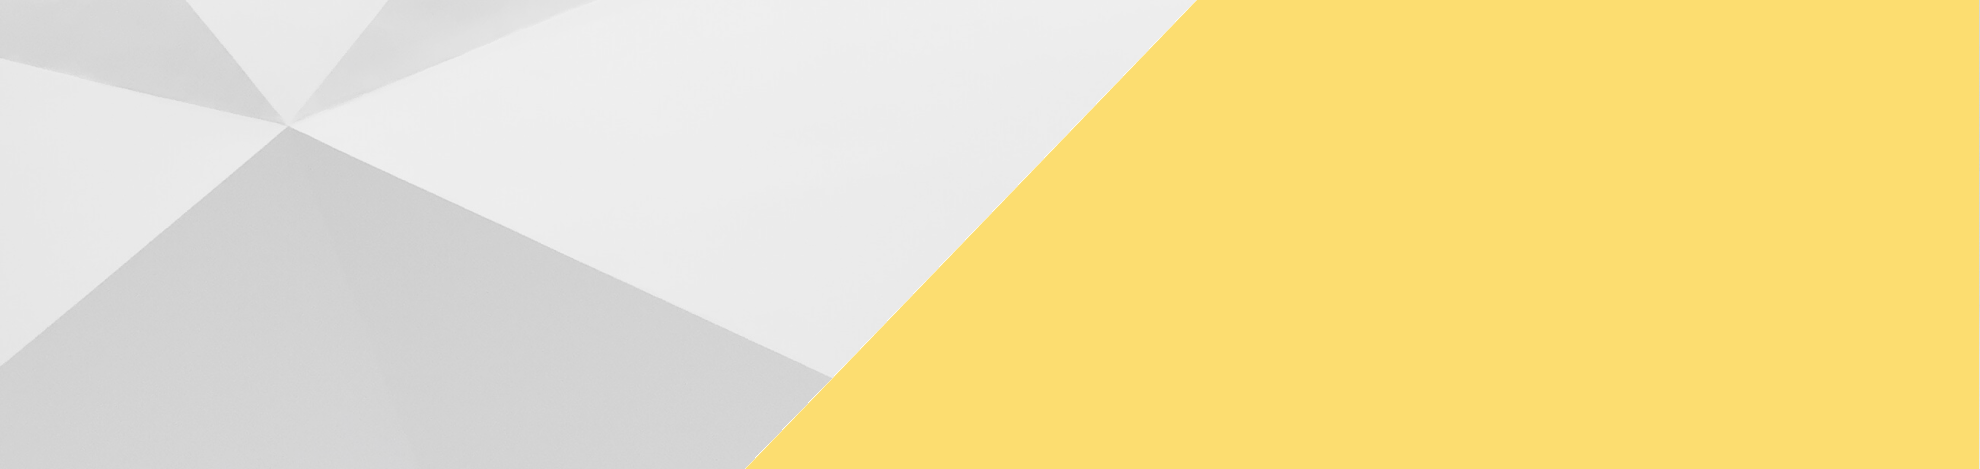
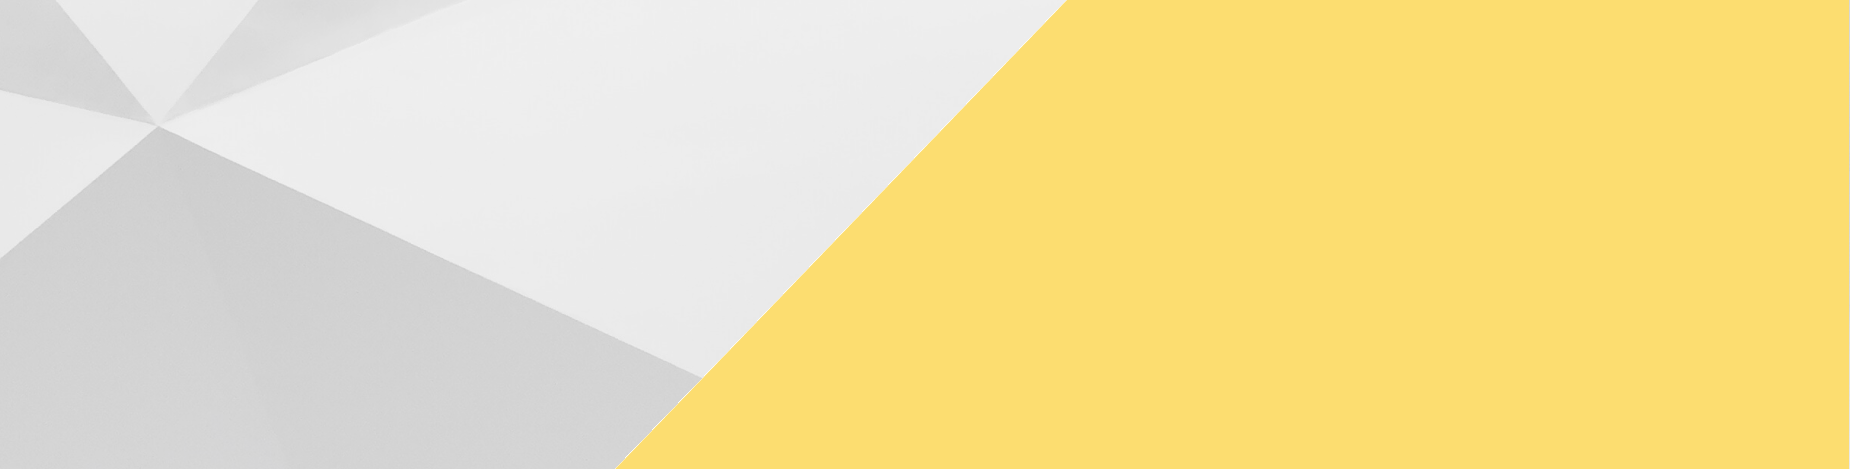
Added new block

Changed region(s): [[0.3081, 0.0, 0.6162, 1.0], [0.0308, 0.2687, 0.3389, 0.6866], [0.1232, 0.209, 0.1541, 0.2388]]

diff --git a/index.html b/index.html
@@ -37,31 +37,32 @@
                 </div>
             </div>
             <div class="row second-section">
-                <div class="col-6 col-sm-12 second-section-margin">
-                    <div class="d-flex flex-column">
-                        <div class="my-auto">
-                            <p class="second-section-header">White Pages Extractor</p>
-                        </div>
-                        <div class="my-auto">
-                            <p class="middle-text"><a href="#">FREE DOWNLOAD</a>, CLICK HERE to extract data about individuals in Canada</p>
-                        </div>
-                        <div class="my-auto">
-                            <button class="download-button">Download <img src="Images/00002.svg" alt="Windows icon"/></button>
-                        </div>
+                <div class="col-lg-6 col-sm-12 d-flex flex-column second-section-margin">
+                    <div class="header-text my-auto">
+                        <p class="second-section-header">White Pages Extractor</p>
+                    </div>
+                    <div class="header-text my-auto">
+                        <p class="middle-text"><a href="#">FREE DOWNLOAD</a>, CLICK HERE to extract data about individuals in Canada</p>
+                    </div>
+                    <div class="my-auto">
+                        <button class="download-button">Download <img src="Images/00002.svg" alt="Windows icon"/></button>
                     </div>
                 </div>
-                <div class="col-6 col-sm-12 second-section-margin">
-                    <div class="d-flex flex-column">
-                        <div class="my-auto">
-                            <p class="second-section-header">White Pages Extractor</p>
-                        </div>
-                        <div class="my-auto">
-                            <p class="middle-text"><a href="#">FREE DOWNLOAD</a>, CLICK HERE to extract data about individuals in Canada</p>
-                        </div>
-                        <div class="my-auto">
-                            <button class="download-button">Download <img src="Images/00002.svg" alt="Windows icon"/></button>
-                        </div>
+                <div class="col-lg-6 col-sm-12 d-flex flex-column second-section-margin">
+                    <div class="header-text my-auto align-right">
+                        <p class="second-section-header ">Yellow Pages Extractor</p>
                     </div>
+                    <div class="header-text my-auto align-right">
+                        <p class="middle-text align-right"><a href="#">FREE DOWNLOAD</a>, CLICK HERE to scrape professionals leads from Canada</p>
+                    </div>
+                    <div class="my-auto align-right">
+                        <button class="download-button align-right">Download <img src="Images/00002.svg" alt="Windows icon"/></button>
+                    </div>
+                </div>
+            </div>
+            <div class="row third-section">
+                <div class="col">
+                    
                 </div>
             </div>
         </div>

diff --git a/main.css b/main.css
@@ -36,7 +36,8 @@ div.second-section {
     background-image: url("images/00003.png");
     height: 500px;
     margin: 0px;
-    background-size: cover;
+    background-size: auto 100%;
+    
 }
 
 @media (max-width: 1151.98px) {
@@ -47,11 +48,15 @@ div.second-section {
 
 .second-section-margin {
     margin-left: 256px;
+    margin-top: 80px;
+    margin-bottom: 100px;
+    max-width: 600px;
 }
 
 @media (max-width: 767.98px) {
     .second-section-margin {
         margin-left: 36px;
+        max-width: 300px;
     }
 }
 
@@ -78,4 +83,8 @@ p.middle-text {
     font-size: 24px;
     font-weight: bold;
     font-family: Roboto, sans-serif;
+}
+
+.third-section{
+    margin-top: 48px;
 }
